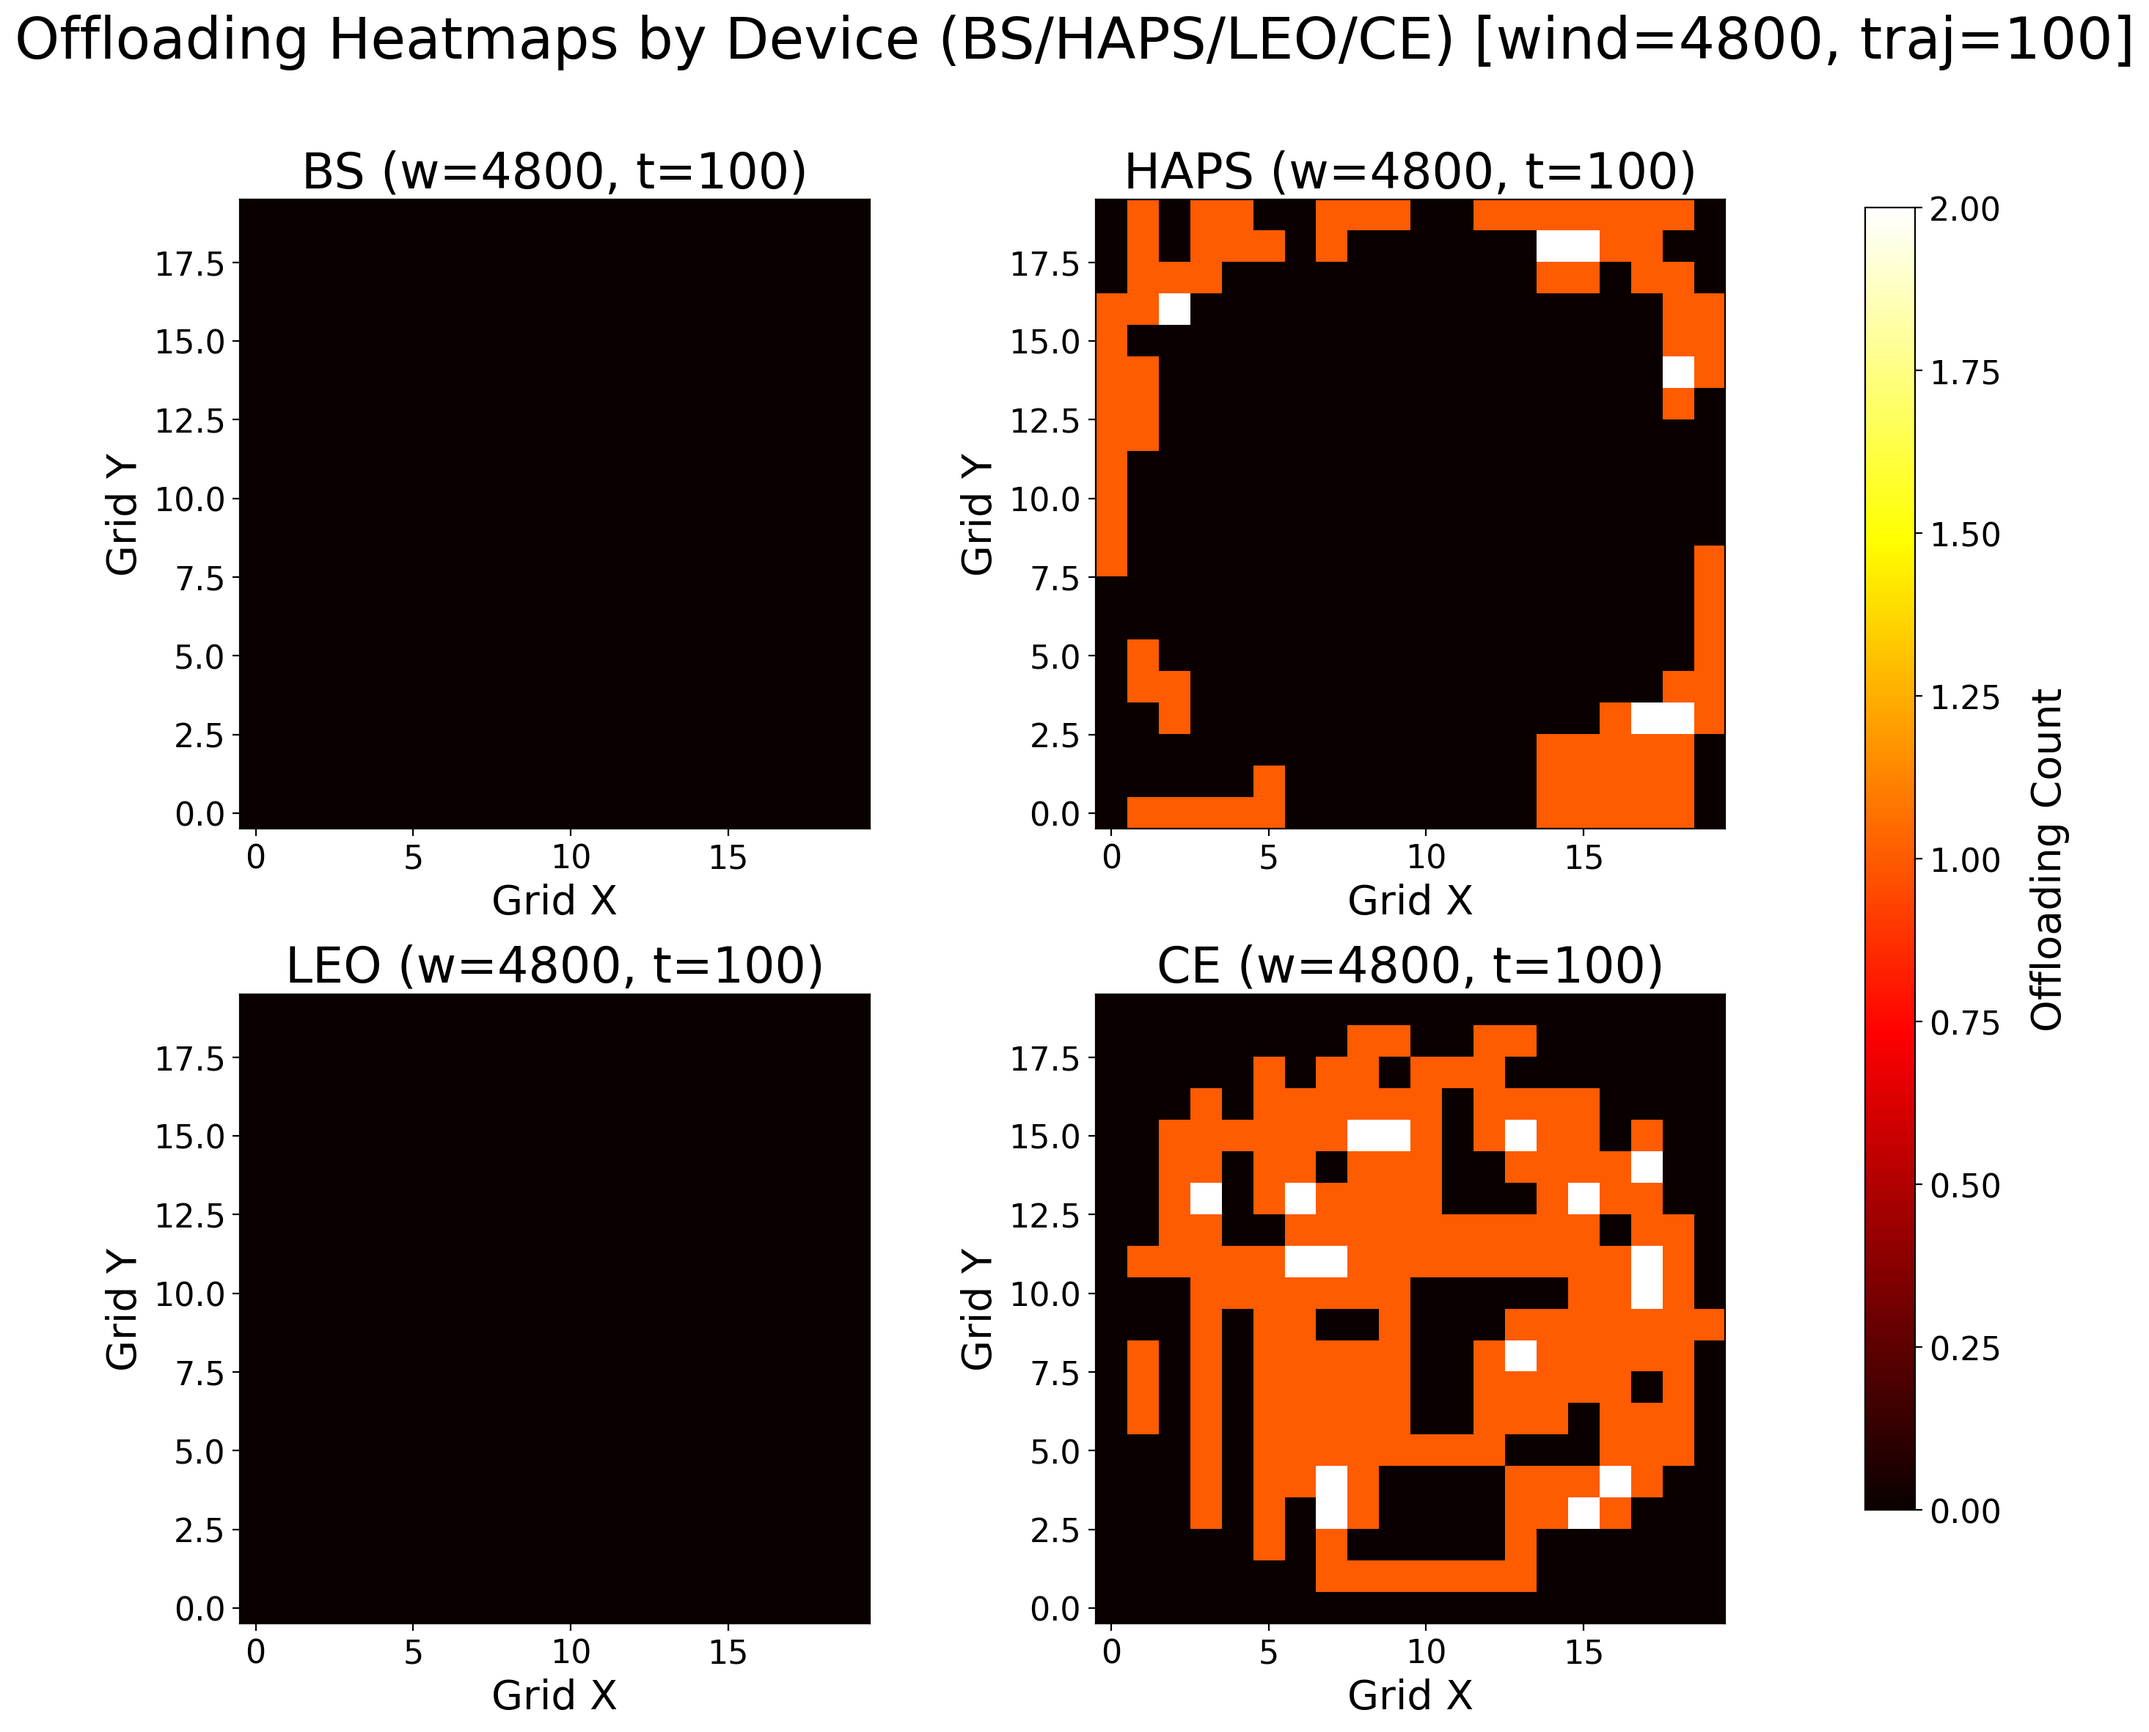
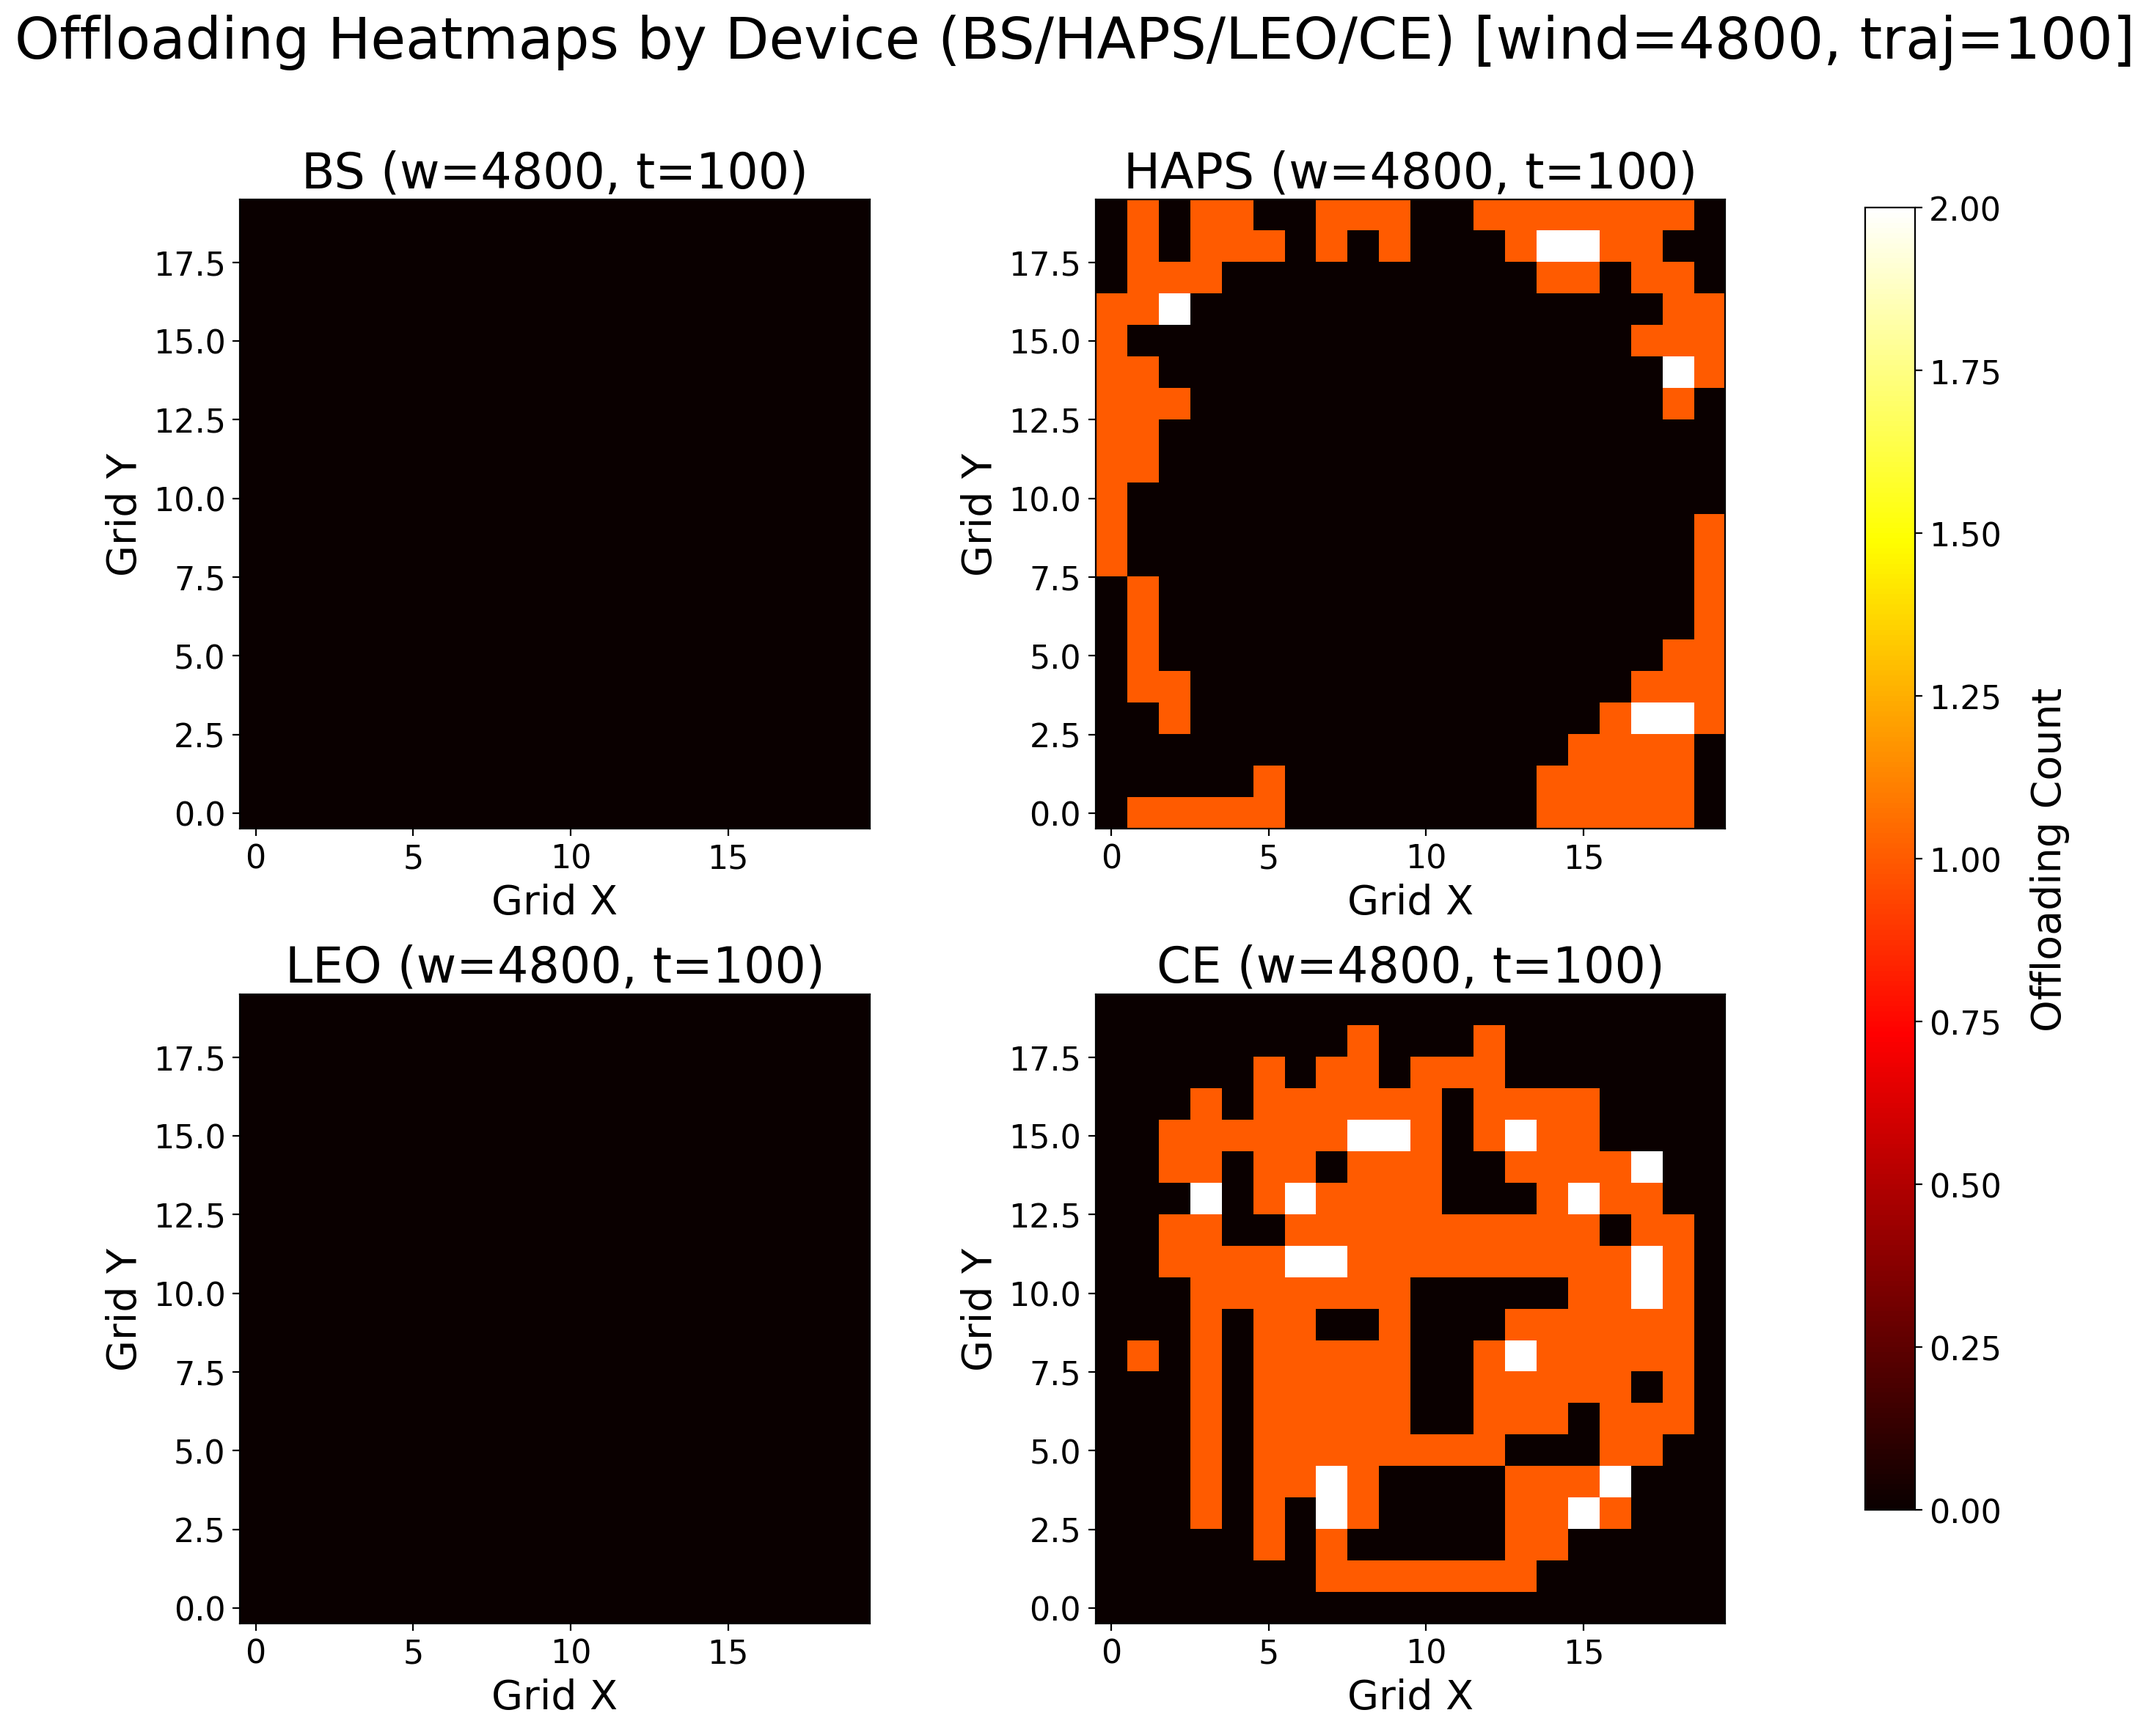
create vis_offloading_seed_executor_range.py
Create a new offloading heatmap based on the seed range

diff --git a/Our_experiment/HCSAC/vis_offloading_seed_executor_range.py b/Our_experiment/HCSAC/vis_offloading_seed_executor_range.py
@@ -1,0 +1,290 @@
+import os
+import sys
+import json
+import argparse
+import random
+
+# Headless default for batch execution
+os.environ.setdefault("SDL_VIDEODRIVER", "dummy")
+os.environ.setdefault("SDL_AUDIODRIVER", "dummy")
+
+current_dir = os.path.dirname(os.path.abspath(__file__))
+project_root = os.path.abspath(os.path.join(current_dir, "..", ".."))
+if project_root not in sys.path:
+    sys.path.append(project_root)
+
+from Our_experiment.HCSAC.ENV.UAVenv_SAC_Original import UAVEnv as UAVenv
+from Our_experiment.HCSAC.ENV.UAVenv_SAC_Original import SAC
+from Our_experiment.HCSAC.UAV_VIS_offloading_2 import visualize_trajectory as vis
+from Our_experiment.HCSAC import UAV_SAVE
+
+import torch
+import numpy as np
+import matplotlib.pyplot as plt
+import pygame
+
+# Skip waits for faster batch mode
+pygame.time.wait = lambda ms: None
+
+
+def parse_args():
+    parser = argparse.ArgumentParser(
+        description="Aggregate offloading frequency heatmaps over a trajectory-seed range under one wind seed."
+    )
+    parser.add_argument(
+        "--wind-seed",
+        type=int,
+        default=None,
+        help="Directly set one wind seed. If omitted, representative seed will be taken from --wind-class in catalog.",
+    )
+    parser.add_argument(
+        "--wind-class",
+        type=str,
+        default="Moderate Wind",
+        choices=["Low Wind", "Moderate Wind", "Strong Wind"],
+        help="Wind class used when --wind-seed is not provided.",
+    )
+    parser.add_argument(
+        "--wind-catalog-json",
+        type=str,
+        default="Our_experiment/HCSAC/data/wind_seed_classes_5000.json",
+        help="Wind seed catalog JSON path produced by wind_seed_catalog_builder.py",
+    )
+    parser.add_argument("--traj-seed-start", type=int, default=0, help="Trajectory seed start (inclusive).")
+    parser.add_argument("--traj-seed-end", type=int, default=200, help="Trajectory seed end (inclusive).")
+    parser.add_argument(
+        "--heatmap-path",
+        type=str,
+        default="Our_experiment/HCSAC/data/offloading_frequency_w{wind_seed}_t{start}_{end}.png",
+        help="Output heatmap path. Supports {wind_seed}/{start}/{end} placeholders.",
+    )
+    parser.add_argument(
+        "--report-path",
+        type=str,
+        default="Our_experiment/HCSAC/data/offloading_frequency_w{wind_seed}_t{start}_{end}.md",
+        help="Output report path. Supports {wind_seed}/{start}/{end} placeholders.",
+    )
+    return parser.parse_args()
+
+
+def set_seed(seed):
+    random.seed(seed)
+    np.random.seed(seed)
+    torch.manual_seed(seed)
+    if torch.cuda.is_available():
+        torch.cuda.manual_seed_all(seed)
+
+
+def build_agents_and_env():
+    env = UAVenv(4)
+    device = torch.device("cuda") if torch.cuda.is_available() else torch.device("cpu")
+
+    hidden_dim = 128
+    gamma = 0.99
+    tau = 0.005
+    actor_lr = 3e-4
+    critic_lr = 3e-4
+    alpha_lr = 1e-4
+
+    state_dim = env.state_dim
+    action_dim = env.action_dim
+    offload_state_dim = env.offload_state_dim
+    offload_action_dim = env.offload_action_dim
+    target_entropy = -np.log(action_dim)
+    target_entropy_offload = -np.log(offload_action_dim)
+
+    agent = SAC(
+        state_dim,
+        hidden_dim,
+        action_dim,
+        actor_lr,
+        critic_lr,
+        alpha_lr,
+        target_entropy,
+        tau,
+        gamma,
+        device,
+    )
+    offload_agent = SAC(
+        offload_state_dim,
+        hidden_dim,
+        offload_action_dim,
+        actor_lr,
+        critic_lr,
+        alpha_lr,
+        target_entropy_offload,
+        tau,
+        gamma,
+        device,
+        type="GCN",
+    )
+
+    agent = UAV_SAVE.load_sac_agent(agent, path="../HCSAC/data/sac_model_fly", device=device)
+    offload_agent = UAV_SAVE.load_sac_agent(offload_agent, path="../HCSAC/data/sac_model_offload", device=device)
+    return env, agent, offload_agent
+
+
+def load_wind_representatives(catalog_json_path):
+    with open(catalog_json_path, "r", encoding="utf-8") as f:
+        data = json.load(f)
+    reps = data.get("representative_seeds", {})
+    for key in ["Low Wind", "Moderate Wind", "Strong Wind"]:
+        if key not in reps:
+            raise KeyError(f"Missing representative seed for class: {key}")
+    return reps
+
+
+def top_k_cells(freq_map, k=5):
+    flat_idx = np.argsort(freq_map.ravel())[::-1][:k]
+    w = freq_map.shape[1]
+    result = []
+    for idx in flat_idx:
+        x = int(idx // w)
+        y = int(idx % w)
+        result.append((x, y, float(freq_map[x, y])))
+    return result
+
+
+def generate_commentary(freq_maps_by_device, wind_seed, wind_label, traj_seed_start, traj_seed_end):
+    device_labels = ["BS", "HAPS", "LEO", "CE"]
+    lines = []
+    lines.append("# Offloading Frequency Commentary")
+    lines.append("")
+    lines.append(f"- Wind seed: `{wind_seed}`")
+    lines.append(f"- Wind label: `{wind_label}`")
+    lines.append(f"- Trajectory seed range: `{traj_seed_start}`-`{traj_seed_end}`")
+    lines.append("")
+
+    lines.append("## Top Hotspot Cells by Device (Top-5 Frequency)")
+    lines.append("")
+    for i, dev in enumerate(device_labels):
+        lines.append(f"### {dev}")
+        for x, y, v in top_k_cells(freq_maps_by_device[i], k=5):
+            lines.append(f"- cell ({x}, {y}): frequency `{v:.6f}`")
+        lines.append("")
+
+    return "\n".join(lines) + "\n"
+
+
+def save_offloading_frequency_heatmap(freq_maps_by_device, output_path, wind_seed, wind_label):
+    # Match typography with vis_offloading_visit_frequency_by_wind_class.py
+    title_fs = 24
+    axis_label_fs = 20
+    tick_fs = 16
+    suptitle_fs = 28
+    cbar_label_fs = 20
+    cbar_tick_fs = 16
+
+    device_labels = ["BS", "HAPS", "LEO", "CE"]
+    fig, axes = plt.subplots(2, 2, figsize=(14, 12))
+    axes = axes.flatten()
+
+    vmin = float(np.min(freq_maps_by_device))
+    vmax = float(np.max(freq_maps_by_device))
+
+    mappable = None
+    for i, dev in enumerate(device_labels):
+        ax = axes[i]
+        mappable = ax.imshow(
+            freq_maps_by_device[i].T,
+            cmap="hot",
+            origin="lower",
+            interpolation="nearest",
+            vmin=vmin,
+            vmax=vmax,
+        )
+        ax.set_title(dev, fontsize=title_fs)
+        ax.set_xlabel("Grid X", fontsize=axis_label_fs)
+        ax.set_ylabel("Grid Y", fontsize=axis_label_fs)
+        ax.tick_params(axis="both", labelsize=tick_fs)
+
+    # Dedicated right-side colorbar axis to avoid overlap
+    cbar_ax = fig.add_axes([0.92, 0.13, 0.024, 0.74])
+    cbar = fig.colorbar(mappable, cax=cbar_ax)
+    cbar.set_label("Offloading Frequency", fontsize=cbar_label_fs, labelpad=14)
+    cbar.ax.tick_params(labelsize=cbar_tick_fs)
+
+    fig.suptitle(
+        f"Offloading Frequency by Device (wind_seed={wind_seed}, {wind_label})",
+        fontsize=suptitle_fs,
+        y=0.98,
+    )
+    plt.tight_layout(rect=[0.0, 0.0, 0.90, 0.95])
+    plt.savefig(output_path, dpi=220, bbox_inches="tight", pad_inches=0.1)
+    plt.close()
+
+
+def main():
+    args = parse_args()
+    if args.traj_seed_end < args.traj_seed_start:
+        raise ValueError("traj-seed-end must be >= traj-seed-start")
+
+    reps = load_wind_representatives(args.wind_catalog_json)
+    wind_seed = int(args.wind_seed) if args.wind_seed is not None else int(reps[args.wind_class])
+    wind_label = args.wind_class if args.wind_seed is None else "Custom Wind Seed"
+
+    env, agent, offload_agent = build_agents_and_env()
+
+    # Device order from env: [L, BS, HAPS, LEO, CE], we only keep 4 offloading devices [BS,HAPS,LEO,CE]
+    offload_sum_by_device = None  # shape: [4, grid_x, grid_y]
+    uncertainty_list = []
+
+    for traj_seed in range(args.traj_seed_start, args.traj_seed_end + 1):
+        set_seed(traj_seed)
+        stats = vis(
+            agent,
+            offload_agent,
+            env,
+            seed=traj_seed,
+            return_stats=True,
+            wind_seed=wind_seed,
+            traj_seed=traj_seed,
+        )
+
+        heatmaps_all_targets = stats["offload_heatmaps_by_target"].astype(np.float64)
+        heatmaps_devices = heatmaps_all_targets[1:5]  # [BS,HAPS,LEO,CE]
+
+        if offload_sum_by_device is None:
+            offload_sum_by_device = np.zeros_like(heatmaps_devices, dtype=np.float64)
+
+        offload_sum_by_device += heatmaps_devices
+        uncertainty_list.append(float(stats["avg_uncertainty"]))
+
+    # Normalize per device so each device heatmap is a spatial frequency distribution.
+    freq_maps_by_device = np.zeros_like(offload_sum_by_device, dtype=np.float64)
+    for i in range(offload_sum_by_device.shape[0]):
+        total_i = float(np.sum(offload_sum_by_device[i]))
+        if total_i > 0:
+            freq_maps_by_device[i] = offload_sum_by_device[i] / total_i
+        else:
+            freq_maps_by_device[i] = offload_sum_by_device[i]
+
+    heatmap_path = args.heatmap_path.format(wind_seed=wind_seed, start=args.traj_seed_start, end=args.traj_seed_end)
+    report_path = args.report_path.format(wind_seed=wind_seed, start=args.traj_seed_start, end=args.traj_seed_end)
+    os.makedirs(os.path.dirname(heatmap_path), exist_ok=True)
+    os.makedirs(os.path.dirname(report_path), exist_ok=True)
+
+    save_offloading_frequency_heatmap(freq_maps_by_device, heatmap_path, wind_seed, wind_label)
+    commentary = generate_commentary(
+        freq_maps_by_device,
+        wind_seed,
+        wind_label,
+        args.traj_seed_start,
+        args.traj_seed_end,
+    )
+
+    with open(report_path, "w", encoding="utf-8") as f:
+        f.write(commentary)
+
+    mean_unc = float(np.mean(uncertainty_list)) if uncertainty_list else float("nan")
+    print("-" * 60)
+    print("Offloading frequency analysis done.")
+    print(f"Wind used: class={wind_label}, wind_seed={wind_seed}")
+    print(f"Trajectory seed range: {args.traj_seed_start}-{args.traj_seed_end}")
+    print(f"Mean Average uncertainty: {mean_unc:.6f}")
+    print(f"Heatmap saved: {heatmap_path}")
+    print(f"Commentary saved: {report_path}")
+
+
+if __name__ == "__main__":
+    main()

diff --git a/Our_experiment/HCSAC/Our_experiment/HCSAC/data/offloading_frequency_w4800_t0_200.md b/Our_experiment/HCSAC/Our_experiment/HCSAC/data/offloading_frequency_w4800_t0_200.md
@@ -1,0 +1,36 @@
+# Offloading Frequency Commentary
+
+- Wind seed: `4800`
+- Wind label: `Custom Wind Seed`
+- Trajectory seed range: `0`-`200`
+
+## Top Hotspot Cells by Device (Top-5 Frequency)
+
+### BS
+- cell (18, 12): frequency `0.062500`
+- cell (15, 14): frequency `0.062500`
+- cell (9, 1): frequency `0.062500`
+- cell (8, 2): frequency `0.031250`
+- cell (13, 2): frequency `0.031250`
+
+### HAPS
+- cell (5, 1): frequency `0.013838`
+- cell (1, 6): frequency `0.013672`
+- cell (9, 19): frequency `0.012620`
+- cell (8, 19): frequency `0.012454`
+- cell (7, 19): frequency `0.012399`
+
+### LEO
+- cell (19, 19): frequency `0.000000`
+- cell (6, 16): frequency `0.000000`
+- cell (6, 6): frequency `0.000000`
+- cell (6, 7): frequency `0.000000`
+- cell (6, 8): frequency `0.000000`
+
+### CE
+- cell (17, 11): frequency `0.007026`
+- cell (14, 12): frequency `0.006830`
+- cell (3, 12): frequency `0.006461`
+- cell (11, 12): frequency `0.006289`
+- cell (12, 12): frequency `0.006240`
+
